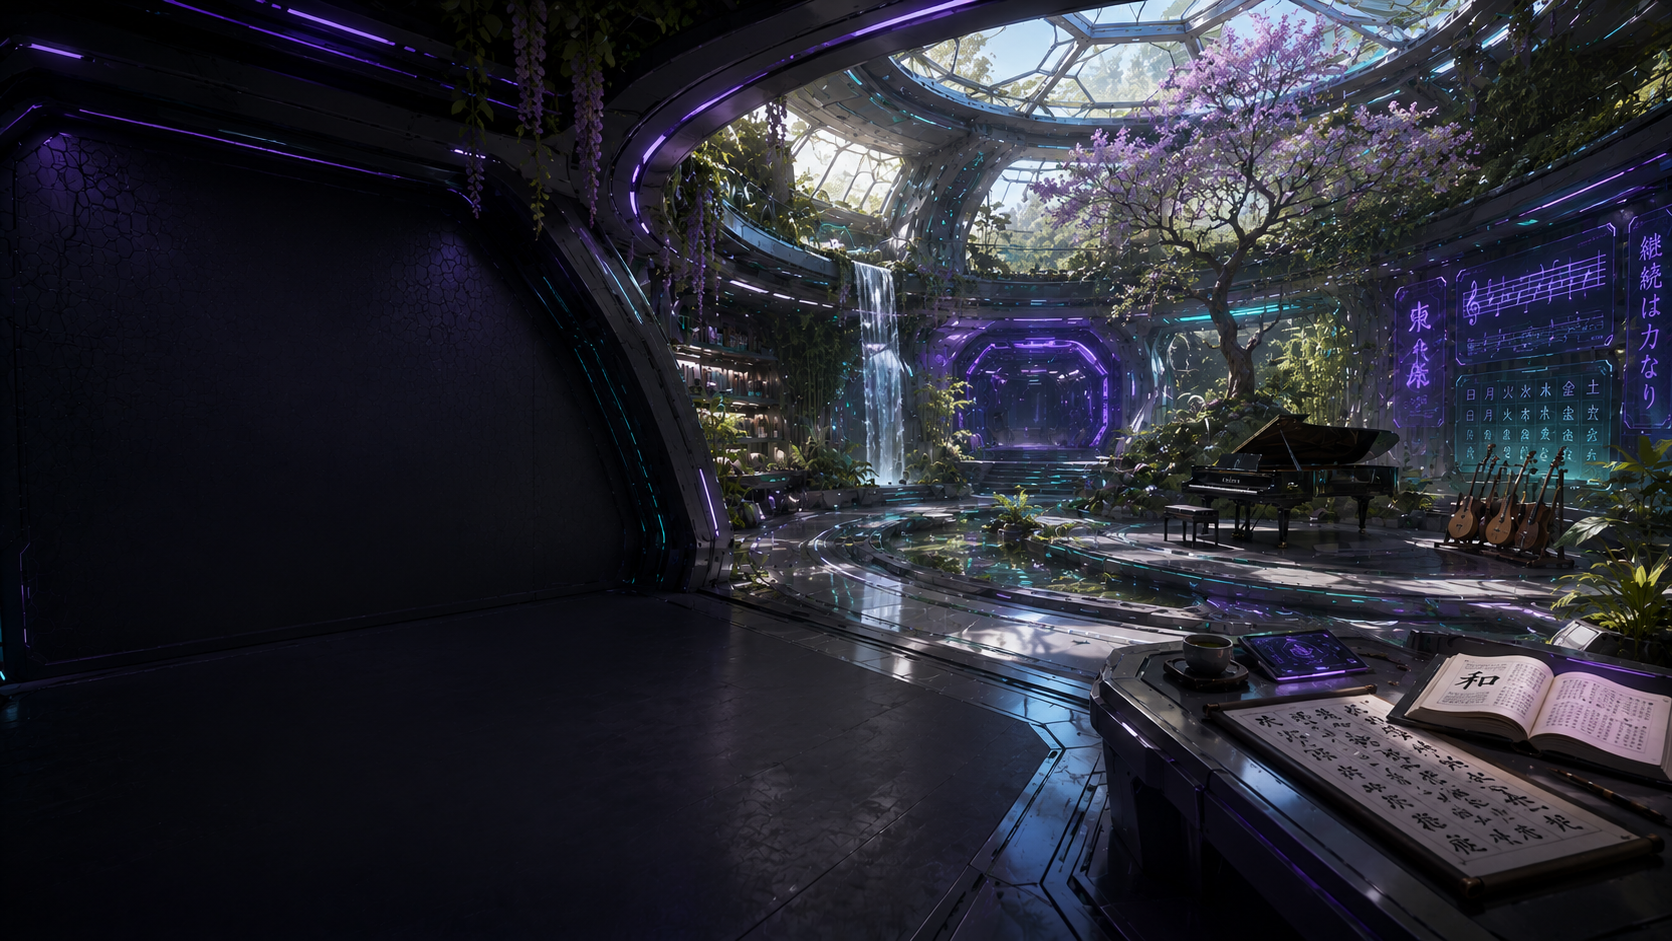
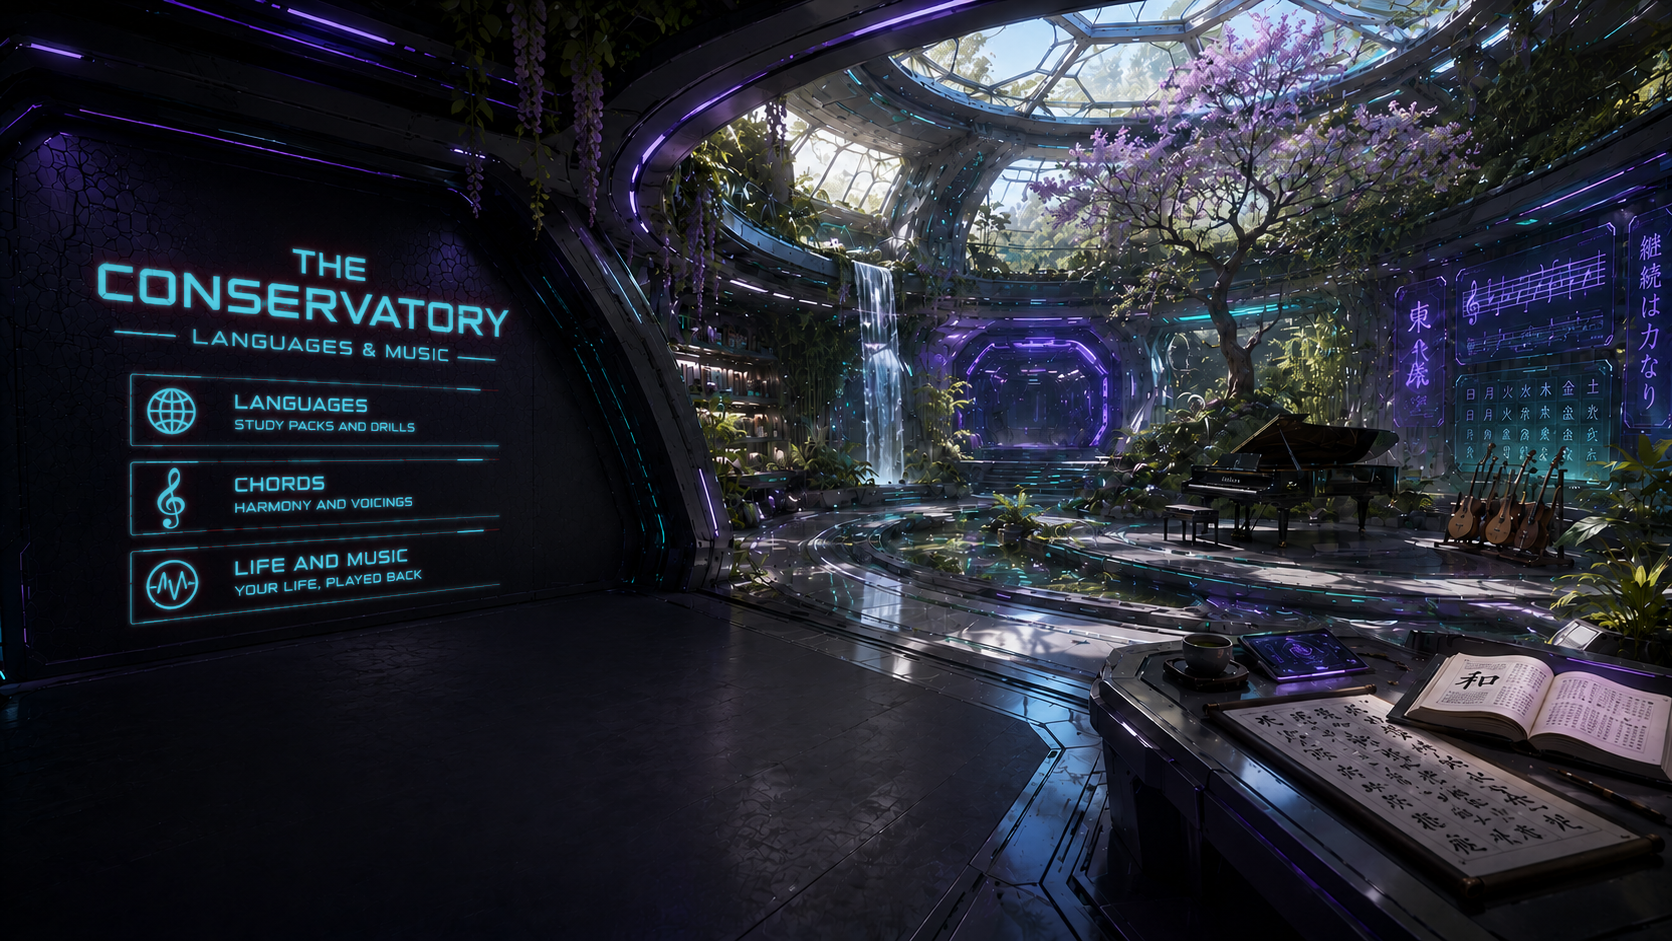
Vespera: bake room signage into the art (real red-text pipeline)
Replace the CSS-projected room signage (a measured wall quad + matrix3d
homography onto DOM text) with baked-in art: Alek had the image
generator render the actual title/link text directly onto the wall in
solid red, at whatever perspective and lighting it chose, solving
"glued to the wall" at the only layer that actually can -- the render,
not CSS math.

Pipeline: threshold for red (hue-tolerant, catches anti-aliased/darker
reds), recolor to teal in place (brightness-preserving, so the neon
falloff survives) with a soft bloom for the always-visible rest state,
then a second hot-pink recolor with a stronger fuzzy bloom, cropped
per-link (icon+name+description together) into small transparent RGBA
overlays revealed on hover -- alpha is the blurred glow intensity, not a
hard rectangle. Overlay position is a straight % crop of the same photo,
so no rotation/homography is needed and it can't drift out of alignment.

Removes the now-dead quadTransform homography solver and all DOM-text
room styling. Adds a mobile fallback (plain stacked text) since mobile
drops the background art entirely and the baked-in signage goes with it.
Verified rest/hover and click-through navigation at 1920x917, 2560x1080,
and 1280x1024.

diff --git a/js/interfaces/vespera/style.css b/js/interfaces/vespera/style.css
@@ -330,117 +330,40 @@
 /* .vsp-room reuses .vsp-hub (sizing + is-depart zoom) and .vsp-room-stage
    reuses .vsp-stage (aspect-lock to the room image, set inline).
 
-   .vsp-room-quad is the signage plane: text laid out flat in a fixed
-   design box (width/height inline, from the room config), then projected
-   onto the measured wall quad by a matrix3d homography computed in
-   index.js. There is deliberately NO card, background, or border here --
-   the text is painted straight onto the wall and foreshortens with it.
-   All font sizes inside are fixed px relative to the design box: the
-   matrix scales them with the wall at every viewport. */
-/* position/left/top/transform-origin live INLINE on the element (see
-   renderRoom) so they can never be version-skewed away from the matrix3d
-   the JS computes -- only cosmetic layout lives here. */
-[data-interface='vespera'] .vsp-room-quad {
-  display: flex;
-  flex-direction: column;
-  padding: 26px 30px;
-}
-
-[data-interface='vespera'] .vsp-room-title {
-  font-family: 'Oxanium', var(--font-display);
-  font-weight: 600;
-  font-size: 40px;
-  letter-spacing: 0.06em;
-  line-height: 1.05;
-  text-transform: uppercase;
-  color: #54e6ff;
-  /* dark seat shadow first (grounds it on the surface), then neon bloom */
-  text-shadow:
-    0 2px 3px rgba(0, 0, 0, 0.85),
-    0 0 14px rgba(64, 200, 255, 0.75),
-    0 0 36px rgba(64, 180, 255, 0.35);
-}
-
-[data-interface='vespera'] .vsp-room-sub {
-  font-family: 'Rajdhani', sans-serif;
-  font-size: 14px;
-  letter-spacing: 0.24em;
-  text-transform: uppercase;
-  margin-top: 8px;
-  color: #6fb8e6;
-  opacity: 0.9;
-  text-shadow: 0 1px 2px rgba(0, 0, 0, 0.8);
-}
-
-/* flex:1 + space-evenly spreads the links down the remaining design box so
-   the block fills its wall band deliberately instead of clustering at the
-   top with dead wall below. */
-[data-interface='vespera'] .vsp-room-links {
-  margin-top: 24px;
-  display: flex;
-  flex-direction: column;
-  flex: 1;
-  justify-content: space-evenly;
-}
-
-/* Rest: teal neon text over a hairline rule -- no box, no fill. */
+   The teal signage is baked directly into img/conservatory.png -- no
+   code-drawn text at all. Each .vsp-room-link is an invisible click target
+   sized to its signage row (left/top/width/height inline, from the room
+   config in index.js) holding a pink-recolored cutout of that exact row
+   (.vsp-room-link-overlay), pre-rendered with a soft bloom and transparent
+   everywhere else, that fades in on hover -- a real fuzzy glow because the
+   blur is baked into the image, not simulated with box-shadow. */
 [data-interface='vespera'] .vsp-room-link {
-  display: flex;
-  flex-direction: column;
-  gap: 3px;
-  text-align: left;
+  position: absolute;
   cursor: pointer;
   background: transparent;
   border: none;
-  border-bottom: 1px solid rgba(90, 200, 255, 0.22);
-  padding: 0 4px 12px;
-  transition: border-color 0.3s;
+  padding: 0;
 }
 
-[data-interface='vespera'] .vsp-room-link-name {
-  font-family: 'Oxanium', var(--font-display);
-  font-weight: 600;
-  font-size: 24px;
-  letter-spacing: 0.06em;
-  text-transform: uppercase;
-  color: #49dbff;
-  text-shadow:
-    0 2px 3px rgba(0, 0, 0, 0.85),
-    0 0 10px rgba(64, 190, 255, 0.55);
-  transition: color 0.3s, text-shadow 0.3s;
+[data-interface='vespera'] .vsp-room-link-overlay {
+  display: block;
+  width: 100%;
+  height: 100%;
+  object-fit: fill;
+  opacity: 0;
+  transition: opacity 0.25s ease-out;
+  pointer-events: none;
 }
 
-[data-interface='vespera'] .vsp-room-link-sub {
-  font-family: 'Rajdhani', sans-serif;
-  font-size: 12px;
-  letter-spacing: 0.18em;
-  text-transform: uppercase;
-  color: #6f9fc8;
-  text-shadow: 0 1px 2px rgba(0, 0, 0, 0.8);
-  transition: color 0.3s;
+[data-interface='vespera'] .vsp-room-link:hover .vsp-room-link-overlay,
+[data-interface='vespera'] .vsp-room-link:focus-visible .vsp-room-link-overlay {
+  opacity: 1;
 }
 
-/* Hover/focus: the letters themselves go hot pink with a fat fuzzy bloom,
-   plus an edgeless pool of pink light on the wall behind them (a radial
-   gradient fading to nothing -- light bleed, not a highlight box). */
-[data-interface='vespera'] .vsp-room-link:hover,
-[data-interface='vespera'] .vsp-room-link:focus-visible {
-  border-bottom-color: rgba(255, 90, 190, 0.7);
-  background: radial-gradient(120% 160% at 20% 50%, rgba(255, 50, 165, 0.16), transparent 70%);
-}
-[data-interface='vespera'] .vsp-room-link:hover .vsp-room-link-name,
-[data-interface='vespera'] .vsp-room-link:focus-visible .vsp-room-link-name {
-  color: #ff5cc0;
-  text-shadow:
-    0 2px 3px rgba(0, 0, 0, 0.85),
-    0 0 6px rgba(255, 80, 190, 0.95),
-    0 0 18px rgba(255, 50, 165, 0.85),
-    0 0 40px rgba(255, 30, 150, 0.7),
-    0 0 70px rgba(255, 20, 140, 0.5);
-}
-[data-interface='vespera'] .vsp-room-link:hover .vsp-room-link-sub,
-[data-interface='vespera'] .vsp-room-link:focus-visible .vsp-room-link-sub {
-  color: #ff9ad6;
+/* Hidden on desktop -- the art (or its hover overlay) already says this.
+   Mobile (below) turns it back on since the art itself is dropped there. */
+[data-interface='vespera'] .vsp-room-link-fallback {
+  display: none;
 }
 
 /* --- Hosted module content --- */
@@ -534,20 +457,46 @@
   [data-interface='vespera'] .vsp-doors { padding: 1rem; }
 
   /* Room: the stage drops its art (shared .vsp-stage rule above), so the
-     signage plane flattens into a normal stacked list -- no absolute
-     positioning, no homography against art that isn't there. !important
-     is load-bearing on every geometry property here: they are all inline
-     styles from index.js (kept atomic with the matrix on purpose), and
-     only !important stylesheet rules outrank inline styles. */
-  [data-interface='vespera'] .vsp-room-quad {
+     baked-in signage isn't visible -- links flatten into a normal stacked
+     list with plain text instead of image cutouts. !important overrides
+     the inline left/top/width/height from index.js (they position against
+     art that isn't rendered here). */
+  [data-interface='vespera'] .vsp-room-link {
     position: static !important;
     left: auto !important;
     top: auto !important;
     width: auto !important;
     height: auto !important;
-    transform: none !important;
-    margin: 0.5rem 1rem 1rem;
-    padding: 0;
+    display: block;
+    padding: 0.9rem 1rem;
+    margin: 0 1rem;
+    border-bottom: 1px solid rgba(90, 200, 255, 0.22);
+    text-align: left;
+  }
+  [data-interface='vespera'] .vsp-room-link-overlay { display: none; }
+  [data-interface='vespera'] .vsp-room-link-fallback {
+    display: flex;
+    flex-direction: column;
+    gap: 0.2rem;
+  }
+  [data-interface='vespera'] .vsp-room-link-fallback-name {
+    font-family: 'Oxanium', var(--font-display);
+    font-weight: 600;
+    font-size: 1.05rem;
+    letter-spacing: 0.05em;
+    text-transform: uppercase;
+    color: #49dbff;
+  }
+  [data-interface='vespera'] .vsp-room-link-fallback-sub {
+    font-family: 'Rajdhani', sans-serif;
+    font-size: 0.7rem;
+    letter-spacing: 0.14em;
+    text-transform: uppercase;
+    color: #6f9fc8;
+  }
+  [data-interface='vespera'] .vsp-room-link:hover .vsp-room-link-fallback-name,
+  [data-interface='vespera'] .vsp-room-link:focus-visible .vsp-room-link-fallback-name {
+    color: #ff5cc0;
   }
 }
 

diff --git a/js/interfaces/vespera/index.js b/js/interfaces/vespera/index.js
@@ -66,28 +66,39 @@ const DISTRICTS = [
     hotspot: { cx: 86.99, cy: 13.02, w: 12.62, h: 14.35, clip: 'polygon(0.0% 58.1%, 100.0% 0.0%, 100.0% 58.5%, 0.2% 100.0%)' } },
   { id: 'conservatory', name: 'The Conservatory', tagline: 'Languages & Music', icon: '🎵', modules: ['languages', 'chords', 'lifeasmusic'],
     hotspot: { cx: 85.93, cy: 36.56, w: 13.43, h: 8.5, clip: 'polygon(0.0% 31.2%, 100.0% 0.0%, 99.1% 90.0%, 0.2% 100.0%)' },
-    // Immersive entry room (see renderRoom). `image` is a full-bleed
-    // establishing shot rendered on an aspect-locked stage (same technique
-    // as the hub). `quad` is the plane the signage is projected onto: four
-    // corners (TL,TR,BR,BL as % of the image) inside the art's blank wall,
-    // mapped from a flat designW x designH text box via a perspective
-    // homography (matrix3d).
+    // Immersive entry room (see renderRoom). `image` is the establishing
+    // shot rendered on an aspect-locked stage (same technique as the hub).
     //
-    // Deliberately NOT the wall's full physically-measured depth: that
-    // quad (1.76:1 foreshortening, in git history) put the perspective
-    // horizon inside the text block, so the title tilted down while the
-    // links tilted up -- geometrically exact, but on a featureless dark
-    // wall opposing tilts in one block just read as crooked text, not as
-    // a surface. What makes signage look GLUED here is following the
-    // wall's one dominant visible cue -- the ceiling trim running
-    // downhill toward the atrium: every text line flows gently down-right
-    // (top edge ~8 deg, bottom edge ~level, nothing uphill) while the far
-    // edge tapers smaller (1.17:1). One direction, one surface.
+    // Superseded the CSS-projected signage (homography onto a measured
+    // wall quad, see git history) with baked-in art: Alek had the image
+    // generator itself render the real title/link text directly on the
+    // wall in solid red (#FF0000-ish, with some anti-aliased/darker-red
+    // variance), at whatever perspective and lighting it chose -- solving
+    // the "glued to the wall" problem at the only layer that actually can
+    // (the render), not at the CSS layer. img/conservatory.png is that art
+    // with every detected red pixel recolored teal in place (brightness
+    // preserved, soft bloom added) -- that's the always-visible rest
+    // state, no code-drawn box or text at all.
+    //
+    // `links[].overlay` is a small pre-cropped RGBA cutout of just that
+    // link's pixels (icon+name+description together), recolored hot pink
+    // with a stronger fuzzy bloom and transparent everywhere else --
+    // revealed on hover by absolute-positioning it (left/top/width/height
+    // as % of the image, from the same crop) over the teal base. No
+    // rotation or perspective math anywhere: the overlay is pixel-for-
+    // pixel from the same photo, so it can't help lining up.
+    //
+    // Regenerating this art requires re-running the red-text detection +
+    // recolor + crop pipeline in img/README.txt against the new image --
+    // these numbers are tied to the current consred.png source.
     room: {
       image: 'img/conservatory.png',
       ratio: '1672 / 941',
-      designW: 400, designH: 370,
-      quad: [[8.97, 30.82], [31.10, 36.13], [31.10, 69.61], [8.97, 70.14]],
+      links: {
+        languages: { overlay: 'img/ops_row_languages.png', left: 5.38, top: 37.73, width: 26.32, height: 12.22 },
+        chords: { overlay: 'img/ops_row_chords.png', left: 5.38, top: 46.76, width: 26.32, height: 12.22 },
+        lifeasmusic: { overlay: 'img/ops_row_life.png', left: 5.38, top: 55.26, width: 26.32, height: 12.22 },
+      },
     } },
   { id: 'core', name: 'Systems Core', tagline: 'Tools & Settings', icon: '🛠️', modules: ['tools', 'settings', 'search', 'qrsync'],
     hotspot: { cx: 85.68, cy: 60.31, w: 12.8, h: 9.14, clip: 'polygon(0.2% 0.0%, 100.0% 22.7%, 100.0% 100.0%, 0.0% 64.0%)' } },
@@ -132,36 +143,6 @@ function moduleTagline(id) {
 
 function districtOf(moduleId) {
   return DISTRICTS.find((d) => d.modules.includes(moduleId)) || null;
-}
-
-// Perspective homography: the matrix3d that maps a flat wDesign x hDesign
-// box onto an arbitrary destination quadrilateral (TL,TR,BR,BL in px).
-// Standard 4-point projective solve (8x8 Gaussian elimination). This is
-// what makes room signage foreshorten like paint on the wall instead of a
-// tilted card: the wall quad is measured off the art, and this maps the
-// text plane onto it exactly.
-function quadTransform(wDesign, hDesign, dst) {
-  const src = [[0, 0], [wDesign, 0], [wDesign, hDesign], [0, hDesign]];
-  const A = [];
-  for (let i = 0; i < 4; i++) {
-    const [x, y] = src[i];
-    const [X, Y] = dst[i];
-    A.push([x, y, 1, 0, 0, 0, -x * X, -y * X, X]);
-    A.push([0, 0, 0, x, y, 1, -x * Y, -y * Y, Y]);
-  }
-  for (let col = 0; col < 8; col++) {
-    let piv = col;
-    for (let r = col + 1; r < 8; r++) if (Math.abs(A[r][col]) > Math.abs(A[piv][col])) piv = r;
-    [A[col], A[piv]] = [A[piv], A[col]];
-    if (Math.abs(A[col][col]) < 1e-12) return ''; // degenerate quad
-    for (let r = 0; r < 8; r++) {
-      if (r === col) continue;
-      const f = A[r][col] / A[col][col];
-      for (let c = col; c < 9; c++) A[r][c] -= f * A[col][c];
-    }
-  }
-  const h = A.map((row, i) => row[8] / A[i][i]); // [a,b,c,d,e,f,g,h]
-  return `matrix3d(${h[0]},${h[3]},0,${h[6]},${h[1]},${h[4]},0,${h[7]},0,0,1,0,${h[2]},${h[5]},0,1)`;
 }
 
 // Shared zoom-travel: aim the transform-origin at the clicked target, add
@@ -307,68 +288,46 @@ function renderRoom(root, district) {
   ]));
 
   const zoom = el('div', { class: 'vsp-hub vsp-room' });
-  // Resolve the art path against THIS module's URL, not the document base:
-  // an inline background-image url() would otherwise resolve relative to
+  // Resolve art paths against THIS module's URL, not the document base: an
+  // inline background-image/img url() would otherwise resolve relative to
   // index.html (wrong folder, and wrong again under GitHub Pages' subpath).
-  const imgUrl = new URL(room.image, import.meta.url).href;
+  const resolve = (rel) => new URL(rel, import.meta.url).href;
   const stage = el('div', {
     class: 'vsp-stage vsp-room-stage',
-    style: `aspect-ratio: ${room.ratio}; background-image: url('${imgUrl}');`,
+    style: `aspect-ratio: ${room.ratio}; background-image: url('${resolve(room.image)}');`,
   });
 
-  // The signage plane: flat text laid out in a designW x designH box, then
-  // projected onto the measured wall quad. No card, no border -- the wall
-  // itself is the sign, the text is the paint.
-  //
-  // position/left/top/transform-origin are INLINE, not in the stylesheet,
-  // deliberately: they are load-bearing for the projection (the matrix is
-  // computed about the 0 0 origin at the stage's top-left), and a stale
-  // cached stylesheet must not be able to detach them from the matrix the
-  // JS sets. That exact mismatch shipped once -- new JS + old CSS swung
-  // the plane around its center and flung the text off the stage.
-  const panel = el('div', {
-    class: 'vsp-room-quad',
-    style: `position:absolute; left:0; top:0; transform-origin:0 0;`
-      + ` width:${room.designW}px; height:${room.designH}px;`,
-  }, [
-    el('div', { class: 'vsp-room-title', text: district.name }),
-    el('div', { class: 'vsp-room-sub', text: district.tagline }),
-  ]);
-  const links = el('div', { class: 'vsp-room-links' });
+  // Each link is an invisible click target the size of its signage row,
+  // holding an absolutely-positioned pink-recolored cutout of that exact
+  // row (see the room config comment) that's transparent until hover. No
+  // rotation or perspective math: it's a pixel-for-pixel crop of the same
+  // photo, so it is the correct shape and position by construction.
   for (const id of district.modules) {
+    const spec = room.links[id];
     const link = el('button', {
       type: 'button', class: 'vsp-room-link',
+      style: `left:${spec.left}%; top:${spec.top}%; width:${spec.width}%; height:${spec.height}%;`,
+      'aria-label': `${moduleLabel(id)} — ${moduleTagline(id)}`,
       onclick: () => travel(zoom, link, () => ctx.navigate(id)),
     }, [
-      el('span', { class: 'vsp-room-link-name', text: moduleLabel(id) }),
-      el('span', { class: 'vsp-room-link-sub', text: moduleTagline(id) }),
+      el('img', {
+        class: 'vsp-room-link-overlay', src: resolve(spec.overlay), alt: '', draggable: 'false',
+      }),
+      // Mobile drops the background art (see .vsp-stage's mobile override),
+      // so the baked-in signage isn't visible there either -- this text is
+      // visually hidden on desktop (the art already says it) and shown as
+      // a plain stacked label on mobile so the room stays usable without
+      // the photo.
+      el('span', { class: 'vsp-room-link-fallback' }, [
+        el('span', { class: 'vsp-room-link-fallback-name', text: moduleLabel(id) }),
+        el('span', { class: 'vsp-room-link-fallback-sub', text: moduleTagline(id) }),
+      ]),
     ]);
-    links.append(link);
+    stage.append(link);
   }
-  panel.append(links);
-  stage.append(panel);
   zoom.append(stage);
   screen.append(zoom);
   root.append(screen);
-
-  // Project the text plane onto the wall, and keep it projected: the quad
-  // is stored as % of the image, so the matrix depends on the stage's
-  // rendered size and must be recomputed whenever that changes. (On mobile
-  // the stylesheet overrides the inline transform with !important and the
-  // panel falls back to a flat stacked list -- recomputing here is a
-  // harmless no-op there.)
-  const apply = () => {
-    // clientWidth/Height, not getBoundingClientRect: layout size is immune
-    // to ancestor transforms (the arrive/depart scale animations would
-    // otherwise skew the rect and bake a stale scale into the matrix).
-    const w = stage.clientWidth;
-    const h = stage.clientHeight;
-    if (!w || !h) { requestAnimationFrame(apply); return; }
-    const dst = room.quad.map(([qx, qy]) => [(qx / 100) * w, (qy / 100) * h]);
-    panel.style.transform = quadTransform(room.designW, room.designH, dst);
-  };
-  new ResizeObserver(apply).observe(stage);
-  requestAnimationFrame(apply);
 }
 
 // --- Space (module content inside station chrome) ---

diff --git a/service-worker.js b/service-worker.js
@@ -1,4 +1,4 @@
-const CACHE_VERSION = 'lifeos-v80';
+const CACHE_VERSION = 'lifeos-v81';
 const APP_SHELL = [
   './',
   './index.html',